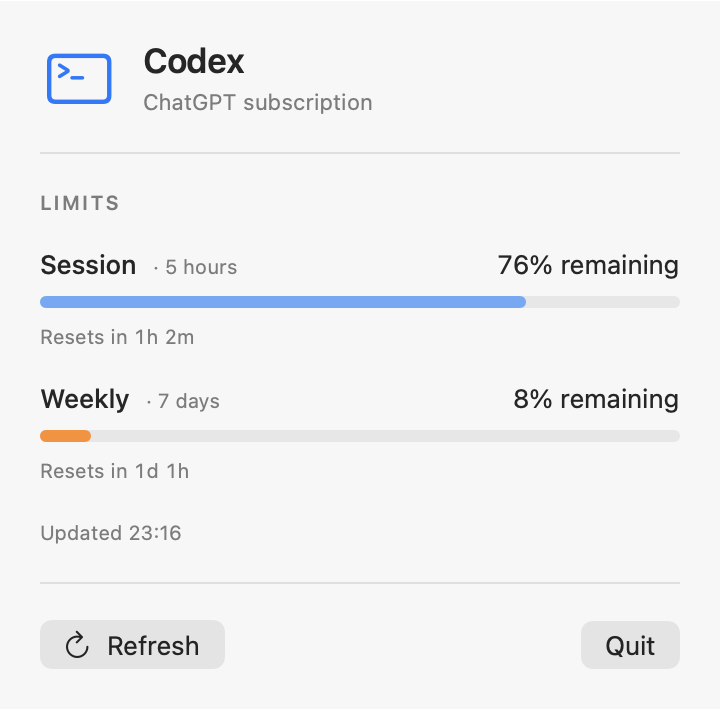
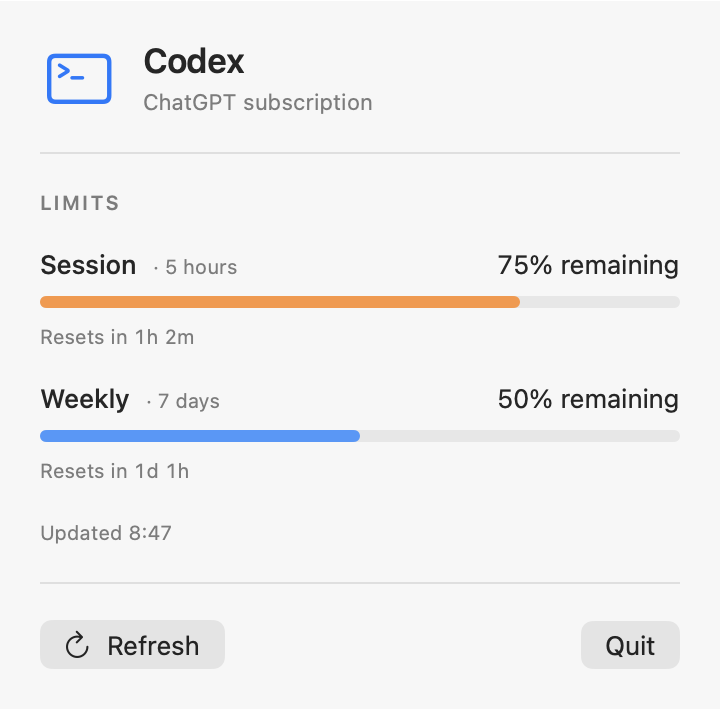
Use window-specific colors and gradual remaining intensity

diff --git a/scripts/render-dashboard.swift b/scripts/render-dashboard.swift
@@ -1,0 +1,72 @@
+// Run from the repository root; see docs/screenshots/README.md.
+import AppKit
+import SwiftUI
+
+@main
+struct DashboardScreenshots {
+    @MainActor
+    static func main() throws {
+        NSApplication.shared.setActivationPolicy(.prohibited)
+        let output = URL(fileURLWithPath: CommandLine.arguments.dropFirst().first ?? "/tmp/agent-usage-screenshots")
+        try FileManager.default.createDirectory(at: output, withIntermediateDirectories: true)
+
+        for (name, scheme) in [("light", ColorScheme.light), ("dark", ColorScheme.dark)] {
+            for remaining in [100, 75, 50, 25, 10, 0] {
+                try capture(
+                    snapshot: snapshot(session: Double(remaining), weekly: Double(remaining)),
+                    scheme: scheme,
+                    destination: output.appendingPathComponent("remaining-\(remaining)-\(name).png")
+                )
+            }
+            try capture(
+                snapshot: snapshot(session: 75, weekly: 50), scheme: scheme,
+                destination: output.appendingPathComponent("dashboard-\(name).png")
+            )
+        }
+    }
+
+    private static func snapshot(session: Double, weekly: Double) -> UsageSnapshot {
+        UsageSnapshot(limits: UsageLimits(rateLimit: .init(
+            primaryWindow: .init(usedPercent: 100 - session, resetAfterSeconds: 3_720),
+            secondaryWindow: .init(usedPercent: 100 - weekly, resetAfterSeconds: 90_000)
+        )), fetchedAt: .now)
+    }
+
+    @MainActor
+    private static func capture(snapshot: UsageSnapshot, scheme: ColorScheme, destination: URL) throws {
+        let panel = UsagePanel(
+            snapshot: snapshot, error: nil, isRefreshing: false,
+            onRefresh: {}, onQuit: {}
+        )
+        .environment(\.colorScheme, scheme)
+        .background(Color(NSColor(calibratedWhite: scheme == .dark ? 0.15 : 0.96, alpha: 1)))
+
+        let host = NSHostingView(rootView: panel)
+        let size = host.fittingSize
+        let window = NSWindow(
+            contentRect: NSRect(origin: .zero, size: size),
+            styleMask: [.borderless], backing: .buffered, defer: false
+        )
+        window.appearance = NSAppearance(named: scheme == .dark ? .darkAqua : .aqua)
+        window.contentView = host
+        host.frame = NSRect(origin: .zero, size: size)
+        window.display()
+        RunLoop.main.run(until: Date().addingTimeInterval(0.15))
+        host.layoutSubtreeIfNeeded()
+
+        guard let bitmap = host.bitmapImageRepForCachingDisplay(in: host.bounds) else {
+            throw CaptureError.bitmapUnavailable
+        }
+        host.cacheDisplay(in: host.bounds, to: bitmap)
+        guard let png = bitmap.representation(using: .png, properties: [:]) else {
+            throw CaptureError.pngUnavailable
+        }
+        try png.write(to: destination)
+        print(destination.path)
+    }
+
+    private enum CaptureError: Error {
+        case bitmapUnavailable
+        case pngUnavailable
+    }
+}

diff --git a/Tests/AgentUsageTests/UsageSnapshotTests.swift b/Tests/AgentUsageTests/UsageSnapshotTests.swift
@@ -27,36 +27,44 @@ final class UsageSnapshotTests: XCTestCase {
         XCTAssertEqual(snapshot(window: expired).resetDescription(for: expired, at: fetchedAt), "Reset due")
     }
 
-    func testMeterValuesAndWarningThreshold() {
+    func testMeterValuesRepresentRemainingAllowance() {
         let window = UsageLimits.Window(usedPercent: 12.5, resetAfterSeconds: 60)
         XCTAssertEqual(window.remainingFraction, 0.875)
         XCTAssertEqual(window.remaining, "87.5%")
-        XCTAssertFalse(window.isLowRemaining)
-        XCTAssertFalse(UsageLimits.Window(usedPercent: 89.9, resetAfterSeconds: 0).isLowRemaining)
         let low = UsageLimits.Window(usedPercent: 90, resetAfterSeconds: 0)
         XCTAssertEqual(low.remainingFraction, 0.1)
         XCTAssertEqual(low.remaining, "10%")
-        XCTAssertTrue(low.isLowRemaining)
+    }
+
+    func testMeterOpacityIncreasesGraduallyWithRemaining() {
+        let cases: [(Double, Double)] = [
+            (0, 0.65), (10, 0.685), (25, 0.7375),
+            (50, 0.825), (75, 0.9125), (100, 1)
+        ]
+        for (remaining, opacity) in cases {
+            let window = UsageLimits.Window(usedPercent: 100 - remaining, resetAfterSeconds: 0)
+            XCTAssertEqual(window.meterOpacity, opacity, accuracy: 0.000001)
+        }
     }
 
     func testOutOfRangeMeterValuesAreClamped() {
         let negative = UsageLimits.Window(usedPercent: -5, resetAfterSeconds: 0)
         XCTAssertEqual(negative.remainingFraction, 1)
         XCTAssertEqual(negative.remaining, "100%")
-        XCTAssertFalse(negative.isLowRemaining)
+        XCTAssertEqual(negative.meterOpacity, 1)
 
         let overLimit = UsageLimits.Window(usedPercent: 105, resetAfterSeconds: 0)
         XCTAssertEqual(overLimit.remainingFraction, 0)
         XCTAssertEqual(overLimit.remaining, "0%")
-        XCTAssertTrue(overLimit.isLowRemaining)
+        XCTAssertEqual(overLimit.meterOpacity, 0.65)
 
         let empty = UsageLimits.Window(usedPercent: 100, resetAfterSeconds: 0)
         XCTAssertEqual(empty.remainingFraction, 0)
-        XCTAssertTrue(empty.isLowRemaining)
+        XCTAssertEqual(empty.meterOpacity, 0.65)
 
         let full = UsageLimits.Window(usedPercent: 0, resetAfterSeconds: 0)
         XCTAssertEqual(full.remainingFraction, 1)
-        XCTAssertFalse(full.isLowRemaining)
+        XCTAssertEqual(full.meterOpacity, 1)
     }
 
     private func snapshot(window: UsageLimits.Window) -> UsageSnapshot {

diff --git a/Sources/AgentUsage/UsagePanel.swift b/Sources/AgentUsage/UsagePanel.swift
@@ -25,12 +25,12 @@ struct UsagePanel: View {
                             .tracking(1)
 
                         limitRow(
-                            title: "Session", subtitle: "5 hours", color: .blue,
+                            title: "Session", subtitle: "5 hours", color: .orange,
                             window: snapshot.limits.rateLimit.primaryWindow,
                             snapshot: snapshot, now: context.date
                         )
                         limitRow(
-                            title: "Weekly", subtitle: "7 days", color: .orange,
+                            title: "Weekly", subtitle: "7 days", color: .blue,
                             window: snapshot.limits.rateLimit.secondaryWindow,
                             snapshot: snapshot, now: context.date
                         )
@@ -92,19 +92,19 @@ struct UsagePanel: View {
                 ZStack(alignment: .leading) {
                     Capsule().fill(Color.primary.opacity(0.08))
                     Capsule()
-                        .fill(color.opacity(window.isLowRemaining ? 1 : 0.65))
+                        .fill(color.opacity(window.meterOpacity))
                         .frame(width: geometry.size.width * window.remainingFraction)
                 }
             }
             .frame(height: 6)
             .accessibilityElement(children: .ignore)
             .accessibilityLabel("\(title) allowance remaining")
-            .accessibilityValue("\(window.remaining) remaining\(window.isLowRemaining ? ", low allowance" : "")")
+            .accessibilityValue("\(window.remaining) remaining")
 
             Text(snapshot.resetDescription(for: window, at: now))
-            .font(.caption)
-            .foregroundStyle(.secondary)
-            .monospacedDigit()
+                .font(.caption)
+                .foregroundStyle(.secondary)
+                .monospacedDigit()
         }
     }
 

diff --git a/Sources/AgentUsage/UsageClient.swift b/Sources/AgentUsage/UsageClient.swift
@@ -16,7 +16,7 @@ struct UsageLimits: Decodable, Sendable {
             min(1, max(0, (100 - usedPercent) / 100))
         }
 
-        var isLowRemaining: Bool { remainingFraction <= 0.1 }
+        var meterOpacity: Double { 0.65 + 0.35 * remainingFraction }
 
         var remaining: String {
             String(format: "%g", remainingFraction * 100) + "%"

diff --git a/docs/screenshots/README.md b/docs/screenshots/README.md
@@ -1,0 +1,43 @@
+# Remaining-allowance screenshots
+
+Native SwiftUI panels rendered with **sample data**, not a live account. Both windows use the same remaining value in each image so the lengths and color intensity can be compared directly.
+
+- **Session:** orange. **Weekly:** blue.
+- Meter opacity: `0.65 + 0.35 × remainingFraction`.
+- Percentage text stays at full contrast. No low-allowance warning.
+- Click any screenshot for full resolution.
+
+## Light appearance
+
+| 100% remaining · opacity 1.00 | 75% remaining · opacity 0.9125 | 50% remaining · opacity 0.825 |
+| --- | --- | --- |
+| [<img src="remaining-100-light.png" width="240" alt="100 percent remaining, light appearance">](remaining-100-light.png) | [<img src="remaining-75-light.png" width="240" alt="75 percent remaining, light appearance">](remaining-75-light.png) | [<img src="remaining-50-light.png" width="240" alt="50 percent remaining, light appearance">](remaining-50-light.png) |
+
+| 25% remaining · opacity 0.7375 | 10% remaining · opacity 0.685 | 0% remaining · empty meter |
+| --- | --- | --- |
+| [<img src="remaining-25-light.png" width="240" alt="25 percent remaining, light appearance">](remaining-25-light.png) | [<img src="remaining-10-light.png" width="240" alt="10 percent remaining, light appearance">](remaining-10-light.png) | [<img src="remaining-0-light.png" width="240" alt="0 percent remaining, light appearance">](remaining-0-light.png) |
+
+## Dark appearance
+
+| 100% remaining | 75% remaining | 50% remaining |
+| --- | --- | --- |
+| [<img src="remaining-100-dark.png" width="240" alt="100 percent remaining, dark appearance">](remaining-100-dark.png) | [<img src="remaining-75-dark.png" width="240" alt="75 percent remaining, dark appearance">](remaining-75-dark.png) | [<img src="remaining-50-dark.png" width="240" alt="50 percent remaining, dark appearance">](remaining-50-dark.png) |
+
+| 25% remaining | 10% remaining | 0% remaining |
+| --- | --- | --- |
+| [<img src="remaining-25-dark.png" width="240" alt="25 percent remaining, dark appearance">](remaining-25-dark.png) | [<img src="remaining-10-dark.png" width="240" alt="10 percent remaining, dark appearance">](remaining-10-dark.png) | [<img src="remaining-0-dark.png" width="240" alt="0 percent remaining, dark appearance">](remaining-0-dark.png) |
+
+## Regenerate
+
+From the repository root on macOS, compile the native capture helper against the actual panel source:
+
+```sh
+xcrun swiftc -swift-version 6 -parse-as-library \
+  Sources/AgentUsage/UsageClient.swift \
+  Sources/AgentUsage/UsageSnapshot.swift \
+  Sources/AgentUsage/UsagePanel.swift \
+  scripts/render-dashboard.swift -o /tmp/render-dashboard
+/tmp/render-dashboard /tmp/agent-usage-screenshots
+```
+
+The helper uses `NSHostingView` to capture the real SwiftUI layout; it does not fetch usage or require credentials. Generated files are written to the supplied directory (default: `/tmp/agent-usage-screenshots`).

diff --git a/README.md b/README.md
@@ -12,13 +12,13 @@ The app requests usage directly and refreshes about once a minute; use **Refresh
 
 ## Dashboard
 
-Click the menu-bar label to open a native dashboard with session and weekly usage meters, remaining percentages, and reset countdowns. Both meters and percentages show **allowance remaining**, matching the menu-bar label. Session is always blue and weekly is always orange; meters use stronger color intensity when 10% or less remains. Countdown text updates while the panel is open; "Reset due" means a fresh reading is needed, not that the allowance has already replenished.
+Click the menu-bar label to open a native dashboard with session and weekly usage meters, remaining percentages, and reset countdowns. Both meters and percentages show **allowance remaining**, matching the menu-bar label. Session is always orange and weekly is always blue. Meter opacity increases smoothly from 65% to 100% as remaining allowance increases; percentage text stays at full contrast. There is no low-allowance warning. Countdown text updates while the panel is open; "Reset due" means a fresh reading is needed, not that the allowance has already replenished.
 
 Loading and authentication errors appear in the panel. If a refresh fails after a successful reading, the last reading stays visible with a stale-data warning and its update time. Use **Refresh** (⌘R) to retry or **Quit** (⌘Q) to stop the app.
 
 <img src="docs/dashboard.png" alt="Codex dashboard with session and weekly usage meters" width="360">
 
-*Native panel rendered with sample data.*
+*Native panel rendered with sample data. See [screenshots at different remaining values](docs/screenshots/README.md).*
 
 ## Run
 
